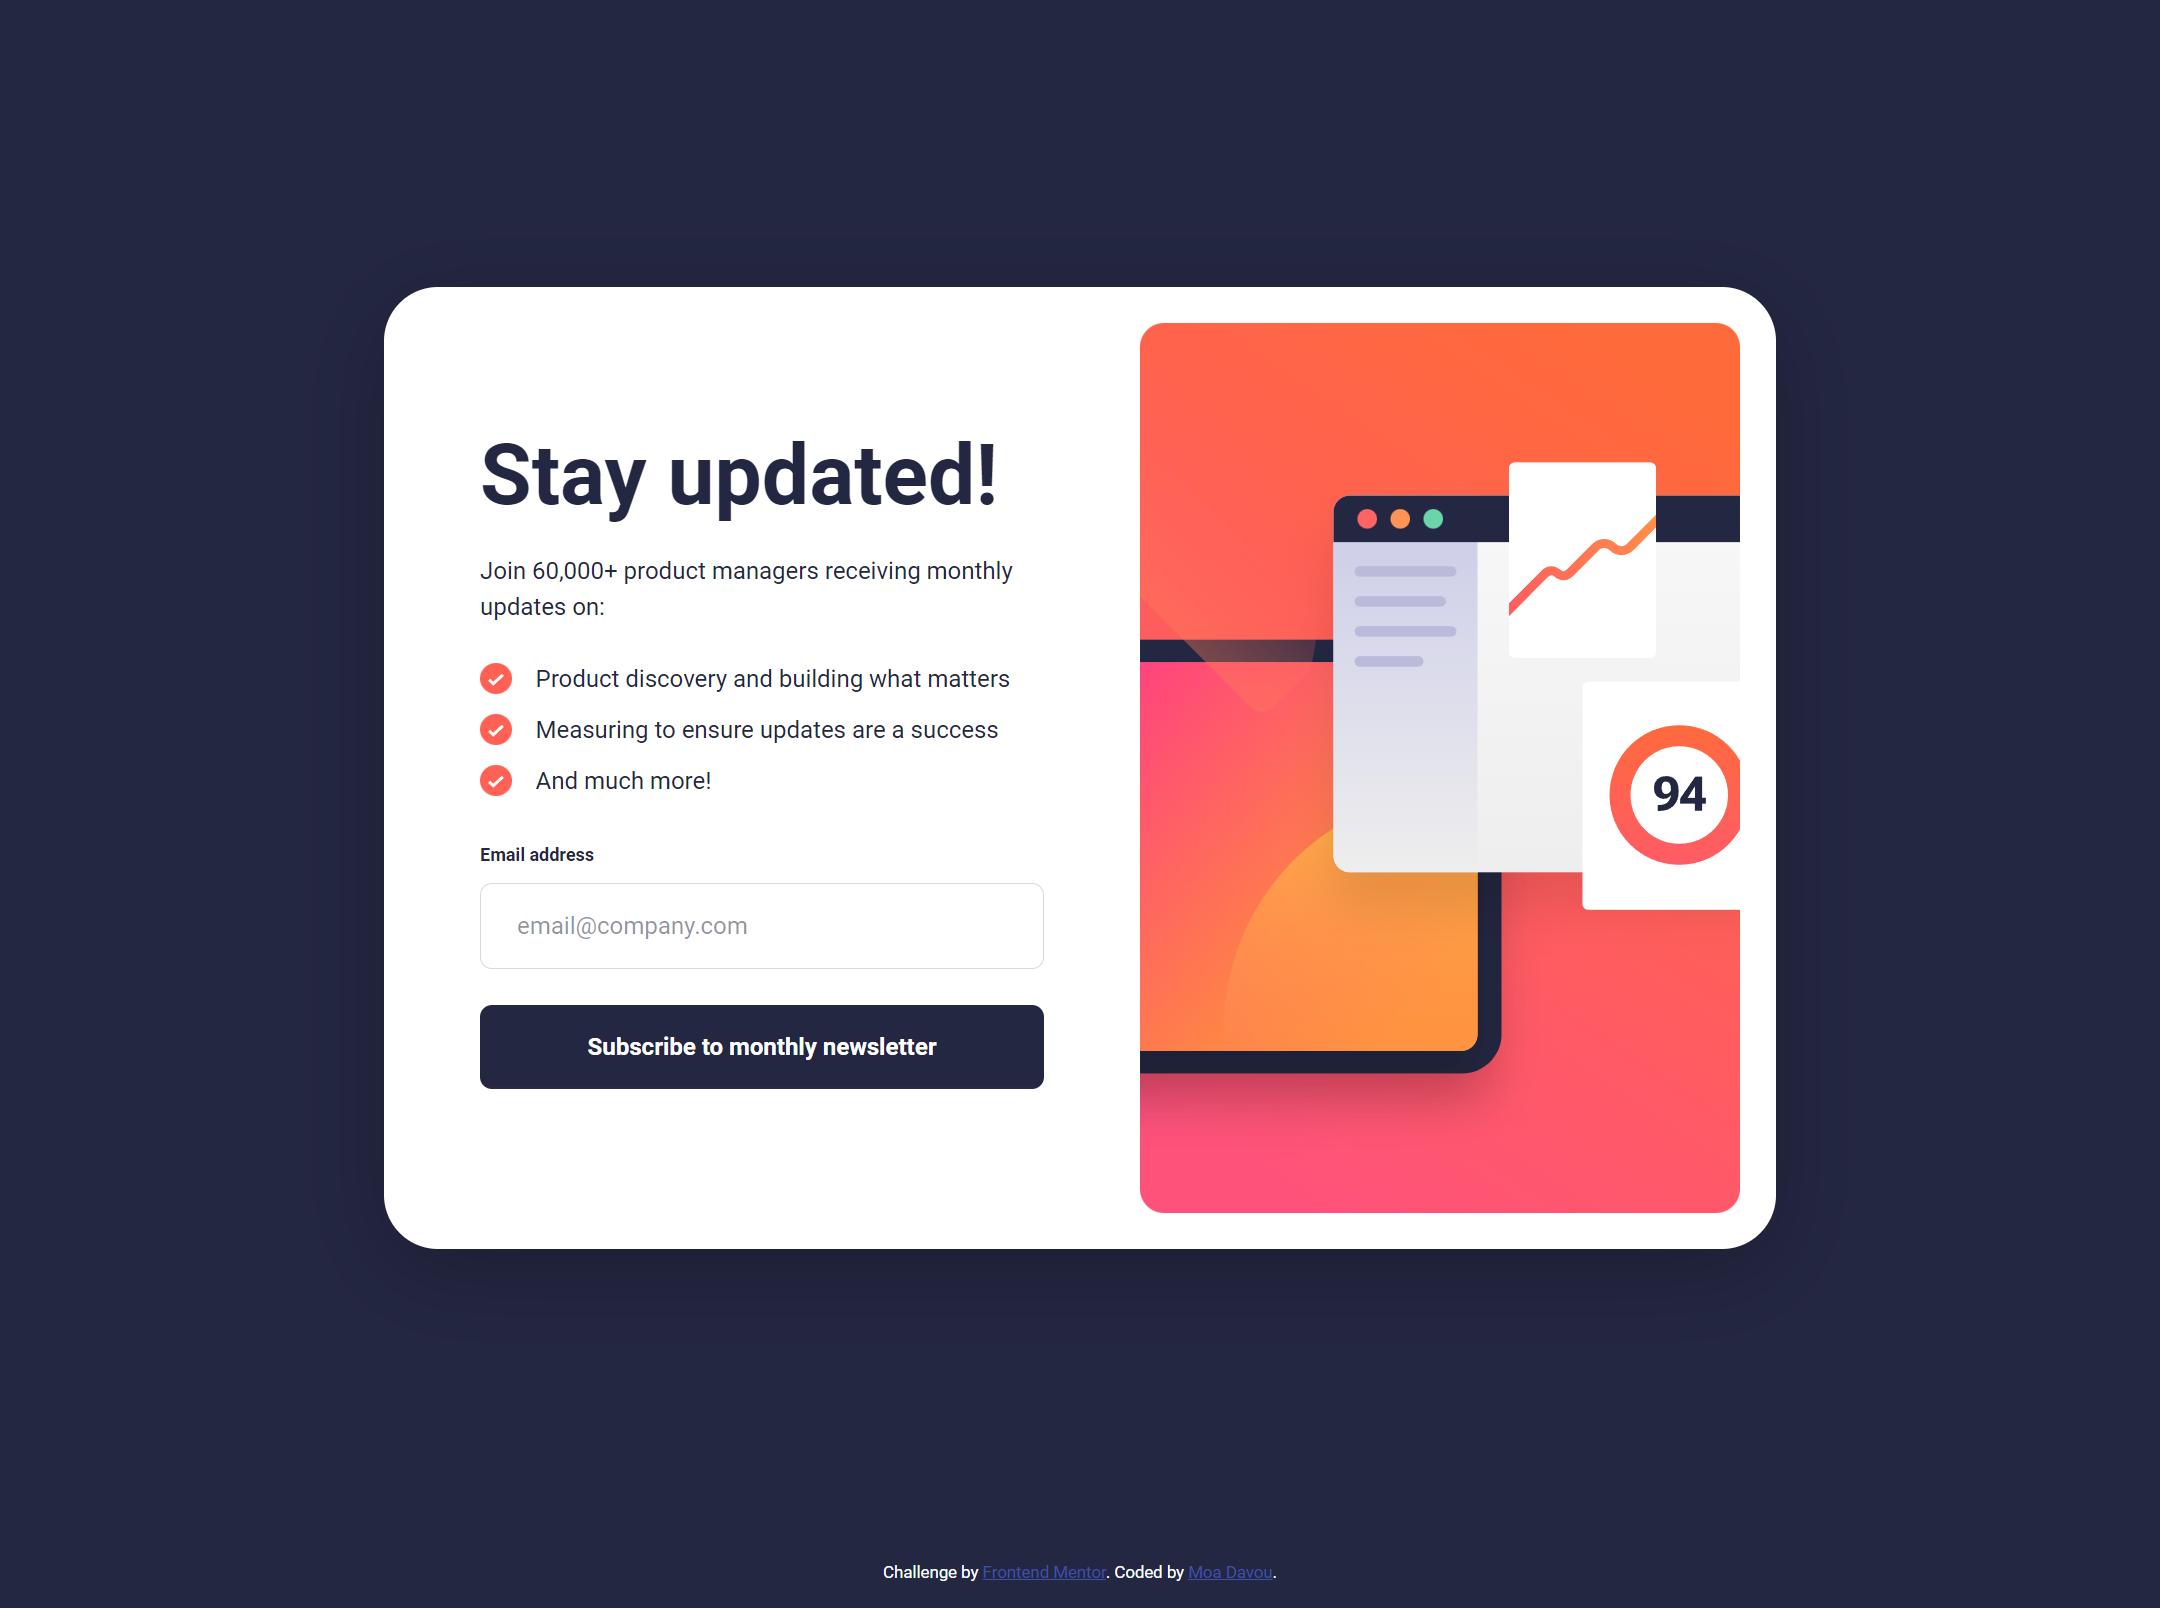
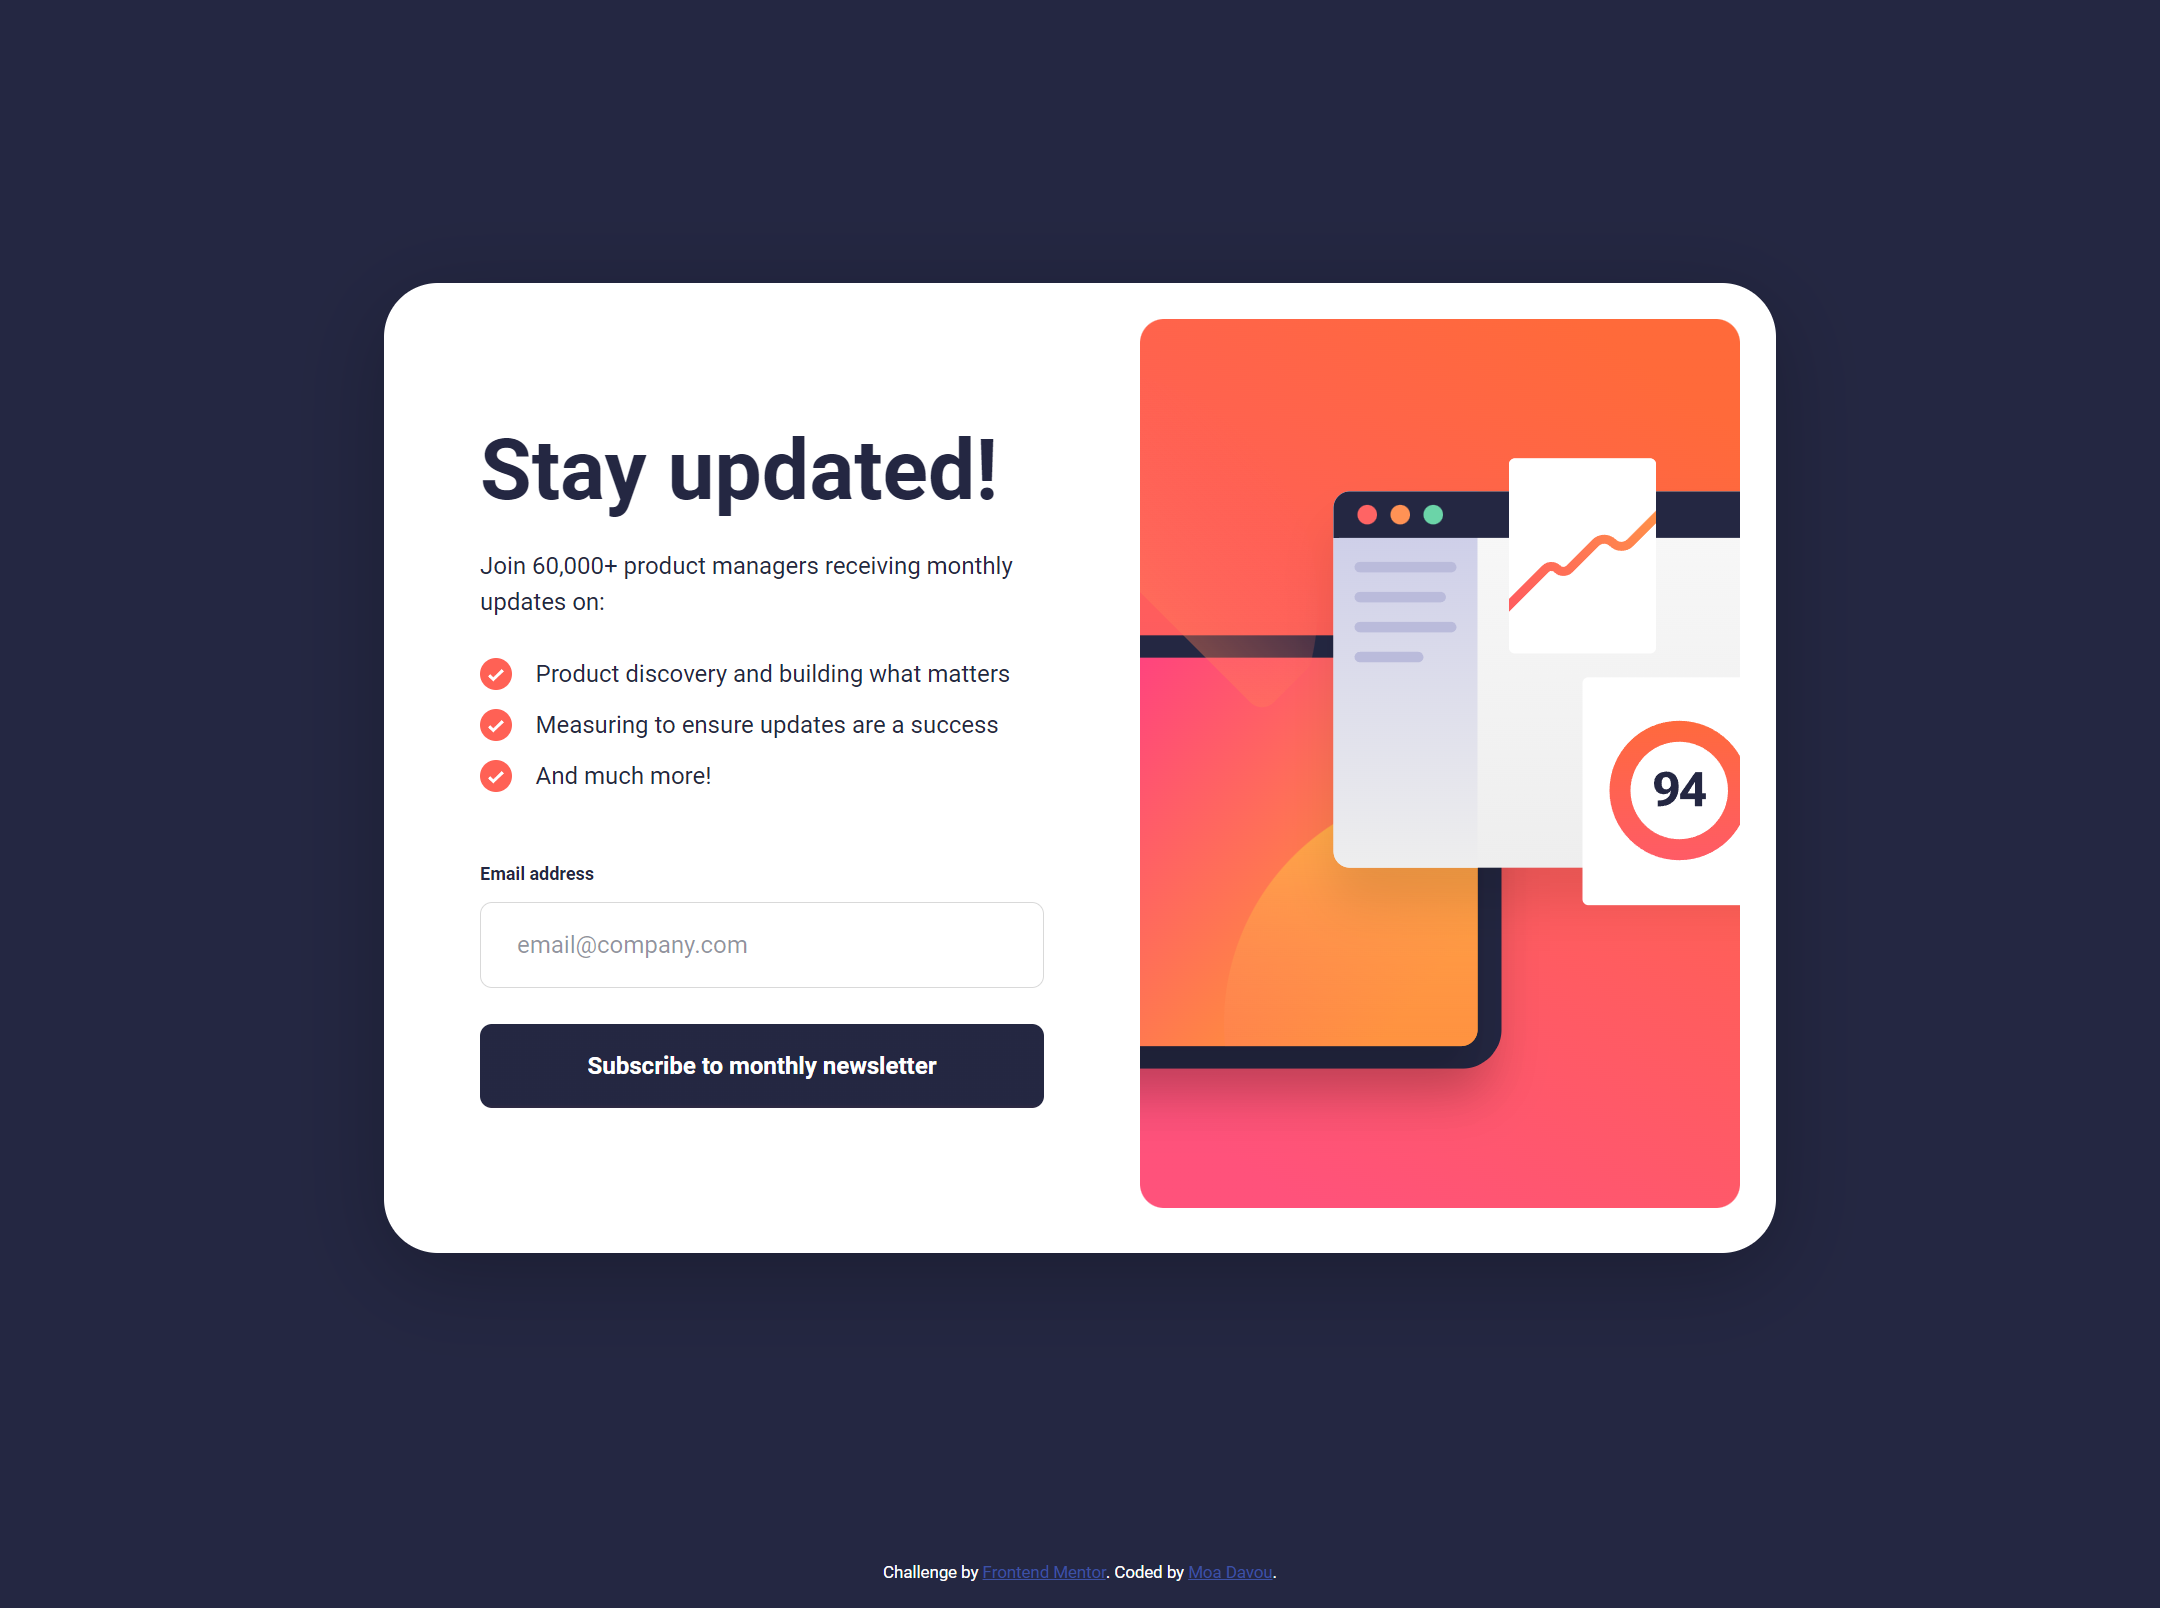
Update spacing

diff --git a/style.css b/style.css
@@ -1,1 +1,322 @@
-:root{--clr-primary-400:hsl(var(--clr-primary-400-hsl));--clr-primary-400-hsl:4,100%,67%;--clr-neutral-100:hsl(var(--clr-neutral-100-hsl));--clr-neutral-100-hsl:0,0%,100%;--clr-neutral-400:hsl(var(--clr-neutral-400-hsl));--clr-neutral-400-hsl:231,7%,60%;--clr-neutral-600:hsl(var(--clr-neutral-600-hsl));--clr-neutral-600-hsl:235,18%,26%;--clr-neutral-700:hsl(var(--clr-neutral-700-hsl));--clr-neutral-700-hsl:234,29%,20%;--fs-300:0.75rem;--fs-400:1rem;--fs-500:2.5rem}@media (min-width:60rem){:root{--fs-500:3.5rem}}*,:after,:before{box-sizing:border-box}*{margin:0;padding:0}img,picture,svg{display:block;max-width:100%}button,input{font:inherit}h1,p{overflow-wrap:break-word}body{background-color:var(--clr-neutral-100);color:var(--clr-neutral-700)}@media (min-width:60rem){body{background-color:var(--clr-neutral-700)}}main{display:grid;min-height:100vh}@media (min-width:60rem){main{place-content:center}}ul{display:grid;gap:.625rem}li{--marker-size:21px;align-items:center;display:flex;list-style-type:none;margin-left:0;padding-left:0}li:before{content:url(assets/images/icon-list.svg);display:inline-block;height:var(--marker-size);margin-right:1rem;width:var(--marker-size)}body{font-family:Roboto,sans-serif;font-size:var(--fs-400);font-weight:400;line-height:1.5}h1{font-size:var(--fs-500);font-weight:700;line-height:1}:where(.flow>:not(:first-child)){margin-top:var(--flow-space,1.5rem)}.attribution{font-size:.7rem;margin:1rem;text-align:center}@media (min-width:60rem){.attribution{color:var(--clr-neutral-100)}}.attribution a{color:#3e52a3}.button{background:linear-gradient(var(--clr-neutral-700),var(--clr-neutral-700),var(--clr-primary-400),#ff527b);background-position:top;background-size:.1rem 10rem;border:none;border-radius:8px;color:var(--clr-neutral-100);cursor:pointer;font-weight:700;padding:1rem;transition:all .2s ease-in-out;width:100%}.button:focus-visible,.button:hover{background-position:bottom;box-shadow:0 16px 32px hsla(var(--clr-primary-400-hsl),.5)}.form{display:grid}@media (min-width:60rem){.form{background-color:var(--clr-neutral-100);border-radius:36px;box-shadow:0 15px 60px rgba(0,0,0,.25);grid-template-columns:1fr 400px;max-width:58rem;padding:1.5rem}}.form__content{padding:2.5rem 1rem}@media (min-width:60rem){.form__content{grid-column-start:1;grid-row-start:1;padding:4.56rem 4rem 4.56rem 2.5rem}.form__image{grid-column-start:2}}.form__image img{width:100%}.form__form div{position:relative}.form__form label{font-size:var(--fs-300);font-weight:700}.form__form input{border:1px solid #d9d9d9;border-radius:8px;display:block;margin-top:.5rem;padding:1rem 1.5rem;width:100%}.form__form input::-moz-placeholder{color:hsla(var(--clr-neutral-700-hsl),.5)}.form__form input::placeholder{color:hsla(var(--clr-neutral-700-hsl),.5)}.form__form input.error{background-color:hsla(var(--clr-primary-400-hsl),.15);border:1px solid var(--clr-primary-400);color:var(--clr-primary-400)}dialog[open]{display:grid}.success{align-content:space-between;background-color:var(--clr-neutral-100);border:none;max-height:none;max-width:none;min-height:100vh;padding:2.5rem 1rem;place-self:center}.success::backdrop{background-color:var(--clr-neutral-700)}.success button{--flow-space:2.5rem}@media (min-width:60rem){.success{border-radius:36px;box-shadow:0 15px 60px rgba(0,0,0,.25);max-width:31.5rem;min-height:auto;padding:3rem 4rem 4rem}}.success__message{margin-top:6.87rem}@media (min-width:60rem){.success__message{margin-top:0}}.success__message h1{--flow-space:2.5rem}.error-message{color:var(--clr-primary-400);font-size:var(--fs-300);font-weight:700;position:absolute;right:0}
+:root {
+  --clr-primary-400: hsl(var(--clr-primary-400-hsl));
+  --clr-primary-400-hsl: 4, 100%, 67%;
+  --clr-neutral-100: hsl(var(--clr-neutral-100-hsl));
+  --clr-neutral-100-hsl: 0, 0%, 100%;
+  --clr-neutral-400: hsl(var(--clr-neutral-400-hsl));
+  --clr-neutral-400-hsl: 231, 7%, 60%;
+  --clr-neutral-600: hsl(var(--clr-neutral-600-hsl));
+  --clr-neutral-600-hsl: 235, 18%, 26%;
+  --clr-neutral-700: hsl(var(--clr-neutral-700-hsl));
+  --clr-neutral-700-hsl: 234, 29%, 20%;
+  --fs-300: 0.75rem;
+  --fs-400: 1rem;
+  --fs-500: 2.5rem;
+}
+@media (min-width: 60rem) {
+  :root {
+    --fs-500: 3.5rem;
+  }
+}
+
+/* Use a more-intuitive box-sizing model */
+*,
+*::before,
+*::after {
+  box-sizing: border-box;
+}
+
+/* Remove default margin */
+* {
+  margin: 0;
+  padding: 0;
+}
+
+/* 3. Improve media defaults */
+img,
+picture,
+video,
+canvas,
+svg {
+  display: block;
+  max-width: 100%;
+}
+
+/* Remove built-in form typography styles */
+input,
+button,
+textarea,
+select {
+  font: inherit;
+}
+
+/* Avoid text overflows */
+p,
+h1,
+h2,
+h3,
+h4,
+h5,
+h6 {
+  overflow-wrap: break-word;
+}
+
+body {
+  color: var(--clr-neutral-700);
+  background-color: var(--clr-neutral-100);
+}
+@media (min-width: 60rem) {
+  body {
+    background-color: var(--clr-neutral-700);
+  }
+}
+
+main {
+  display: grid;
+  min-height: 100vh;
+}
+@media (min-width: 60rem) {
+  main {
+    place-content: center;
+  }
+}
+
+ul {
+  display: grid;
+  gap: 0.625rem;
+}
+
+li {
+  --marker-size: 21px;
+  margin-left: var(--marker-size);
+  padding-left: 1rem;
+  list-style-type: none;
+  display: flex;
+  align-items: center;
+  margin-left: 0;
+  padding-left: 0;
+}
+
+li::before {
+  content: url("./assets/images/icon-list.svg");
+  display: inline-block;
+  width: var(--marker-size);
+  height: var(--marker-size);
+  margin-right: 1rem;
+}
+
+body {
+  font-size: var(--fs-400);
+  font-family: "Roboto", sans-serif;
+  font-weight: 400;
+  line-height: 1.5;
+}
+
+h1 {
+  font-size: var(--fs-500);
+  font-weight: 700;
+  line-height: 1;
+}
+
+.wrapper {
+  width: min(100% - 3rem, 58rem);
+  margin-inline: auto;
+}
+
+.even-columns {
+  display: grid;
+  gap: var(--gap, 1rem);
+  grid-template-columns: repeat(auto-fit, minmax(100px, 1fr));
+}
+
+/* purgecss ignore */
+:where(.flow > :not(:first-child)) {
+  margin-top: var(--flow-space, 1.5rem);
+}
+
+.text-primary-400 {
+  color: hsl(4, 100%, 67%);
+}
+
+.bg-primary-400 {
+  color: hsl(4, 100%, 67%);
+}
+
+.text-neutral-100 {
+  color: hsl(0, 0%, 100%);
+}
+
+.bg-neutral-100 {
+  color: hsl(0, 0%, 100%);
+}
+
+.text-neutral-400 {
+  color: hsl(231, 7%, 60%);
+}
+
+.bg-neutral-400 {
+  color: hsl(231, 7%, 60%);
+}
+
+.text-neutral-600 {
+  color: hsl(235, 18%, 26%);
+}
+
+.bg-neutral-600 {
+  color: hsl(235, 18%, 26%);
+}
+
+.text-neutral-700 {
+  color: hsl(234, 29%, 20%);
+}
+
+.bg-neutral-700 {
+  color: hsl(234, 29%, 20%);
+}
+
+.attribution {
+  font-size: 0.7rem;
+  text-align: center;
+  margin: 1rem;
+}
+@media (min-width: 60rem) {
+  .attribution {
+    color: var(--clr-neutral-100);
+  }
+}
+
+.attribution a {
+  color: hsl(228, 45%, 44%);
+}
+
+.button {
+  cursor: pointer;
+  border: none;
+  width: 100%;
+  background: linear-gradient(var(--clr-neutral-700), var(--clr-neutral-700), var(--clr-primary-400), #ff527b);
+  background-size: 0.1rem 10rem;
+  background-position: top;
+  color: var(--clr-neutral-100);
+  font-weight: 700;
+  padding: 1rem;
+  border-radius: 8px;
+  transition: all 200ms ease-in-out;
+}
+.button:hover, .button:focus-visible {
+  background-position: bottom;
+  box-shadow: 0px 16px 32px hsla(var(--clr-primary-400-hsl), 0.5);
+}
+
+.form {
+  display: grid;
+}
+@media (min-width: 60rem) {
+  .form {
+    grid-template-columns: 1fr 400px;
+    background-color: var(--clr-neutral-100);
+    max-width: 58rem;
+    border-radius: 36px;
+    padding: 1.5rem;
+    box-shadow: 0px 15px 60px hsla(0, 0%, 0%, 0.25);
+  }
+}
+
+.form__content {
+  padding: 2.5rem 1rem;
+}
+@media (min-width: 60rem) {
+  .form__content {
+    grid-column-start: 1;
+    grid-row-start: 1;
+    padding: 4.56rem 4rem 4.56rem 2.5rem;
+  }
+}
+
+@media (min-width: 60rem) {
+  .form__image {
+    grid-column-start: 2;
+  }
+}
+.form__image img {
+  width: 100%;
+}
+
+.form__form {
+  margin-top: 2.5rem;
+}
+
+.form__form div {
+  position: relative;
+}
+
+.form__form label {
+  font-weight: 700;
+  font-size: var(--fs-300);
+}
+
+.form__form input {
+  display: block;
+  width: 100%;
+  margin-top: 0.5rem;
+  padding: 1rem 1.5rem;
+  border: 1px solid hsl(0, 0%, 85%);
+  border-radius: 8px;
+}
+.form__form input::placeholder {
+  color: hsla(var(--clr-neutral-700-hsl), 0.5);
+}
+.form__form input.error {
+  border: 1px solid var(--clr-primary-400);
+  background-color: hsla(var(--clr-primary-400-hsl), 0.15);
+  color: var(--clr-primary-400);
+}
+
+dialog[open] {
+  display: grid;
+}
+
+.success {
+  align-content: space-between;
+  min-height: 100vh;
+  place-self: center;
+  background-color: var(--clr-neutral-100);
+  padding: 2.5rem 1rem;
+  max-width: initial;
+  max-height: initial;
+  border: none;
+}
+.success::backdrop {
+  background-color: var(--clr-neutral-700);
+}
+.success button {
+  --flow-space: 2.5rem;
+}
+@media (min-width: 60rem) {
+  .success {
+    max-width: 31.5rem;
+    min-height: initial;
+    border-radius: 36px;
+    padding: 3rem 4rem 4rem 4rem;
+    box-shadow: 0px 15px 60px hsla(0, 0%, 0%, 0.25);
+  }
+}
+
+.success__message {
+  margin-top: 6.87rem;
+}
+@media (min-width: 60rem) {
+  .success__message {
+    margin-top: 0;
+  }
+}
+.success__message h1 {
+  --flow-space: 2.5rem;
+}
+
+.error-message {
+  position: absolute;
+  right: 0;
+  color: var(--clr-primary-400);
+  font-weight: 700;
+  font-size: var(--fs-300);
+}

diff --git a/scss/blocks/_form.scss b/scss/blocks/_form.scss
@@ -34,6 +34,10 @@
   }
 }
 
+.form__form {
+  margin-top: 2.5rem;
+}
+
 .form__form div {
   position: relative;
 }
